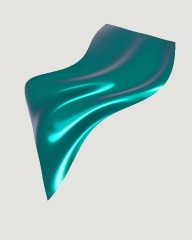
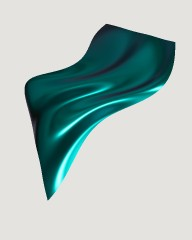
Mystique round 3: dense maze, 1 mm dots, opal mystique, electric holo foil
Tested on a crumpled cloth (new app/src/dev/drape-eval.js: the real
fabric shader on a swirled 40 cm square in the White loft, upright or
flat, swatch and close views) against the owner's nktextile close-ups
and an "electric foiled spandex" photo.

- Maze: a sum of six one-wavelength waves with drifting phases; dots
  within MAZE_GAP 0.3 cells of its zero lines are dropped. Short, densely
  packed chains in every direction (the warped stripes gave long zebra
  lines with wide gaps). dotR 0.46 -> 0.42.
- Mystique texScale 0.75 -> 1.33 (dots about 1 mm apart, per the swatch
  video); at 75% the far blend turned the dots to satin at swatch
  distance. Reverses the owner's 2026-10-24 pick; flagged.
- New opalmystique: mystique with a soft angle rainbow in the foil dots
  (holo 0.35, freq 3.2, jit 0.15); in the picker after mystique.
- liquidholo: film tint 0.32 -> 0.65 and new film.hue (uFilmHue, was a
  fixed 1.6/0.45) = [0.3, 3.2] so the pastel rainbow follows the folds;
  its sparse flakes removed (dark specks on pale foil).
- Picker tiles re-rendered in the White loft (their seamless rig is
  gone); thumbnails.materials(only) renders a subset.

Tests: 53 pass, the 3 known pose.test.js failures remain.

Changed region(s): [[0.125, 0.0875, 0.9375, 0.8458]]

diff --git a/app/src/materials/fabric.js b/app/src/materials/fabric.js
@@ -145,6 +145,7 @@ uniform float uFilmScale;  // metres per swirl
 uniform vec2 uFilmRange;   // film thickness, nm
 uniform float uFilmWarp;   // how much the swirls fold over each other
 uniform float uFilmTint;   // share of the film's colour shown in the cloth's own colour (hologram prints)
+uniform vec2 uFilmHue;     // that colour's hue: x per unit of swirl, y per unit of the reflection's turn (the angle)
 float gFilm = .5;
 float gFlake = 0.;              // the flake mask, for FOIL_FRAGMENT
 vec3 gDye = vec3( 0. ), gFoil = vec3( 0. ); // the knit's and the foil's own colours, for FOIL_FRAGMENT
@@ -164,7 +165,9 @@ uniform sampler2D tDecal;
 uniform vec4 uWrinkle[ 3 ];
 uniform vec4 uWrinkleN[ 3 ];
 
-const float MAZE_KEEP = .6; // share of lattice dots a maze screen keeps (uMaze)
+// Maze screen (uMaze): wave number of the maze (zero lines about pi / MAZE_K = 1.9 cells apart), the
+// half-width of the gaps along them (cells), and the share of lattice dots that leaves.
+const float MAZE_K = 1.65, MAZE_GAP = .3, MAZE_KEEP = .72;
 
 vec3 hash32( vec2 p ) {
 	vec3 p3 = fract( vec3( p.xyx ) * vec3( .1031, .1030, .0973 ) );
@@ -305,7 +308,7 @@ const FABRIC_FRAGMENT = /* glsl */`
 		// a hologram print shows its colours in the cloth itself, shifting as the surface turns
 		if ( uFilmTint > 0. ) {
 			vec3 hd = normalize( ( viewMatrix * vec4( uHoloDirW, 0. ) ).xyz );
-			vec3 ft = spectrum( gFilm * 1.6 + dot( reflect( - viewDir, normal ), hd ) * .45 );
+			vec3 ft = spectrum( gFilm * uFilmHue.x + dot( reflect( - viewDir, normal ), hd ) * uFilmHue.y );
 			diffuseColor.rgb = mix( diffuseColor.rgb, diffuseColor.rgb * ( .62 + .5 * ft ), uFilmTint );
 		}
 	}
@@ -363,12 +366,19 @@ const FABRIC_FRAGMENT = /* glsl */`
 			vec2 jit = ( hash32( hc.zw + 3.7 ).xy - .5 ) * 2. * max( .5 - uDotR, 0. );
 			nearMask = ( 1. - smoothstep( uDotR - r * .7, uDotR + r * .7, length( hc.xy - jit ) ) ) * step( rn.z, uPresence );
 			// Mystique's foil is printed in winding chains of dots with bare gaps between them, like a
-			// fingerprint (close-ups and a swatch video, 2026-10-27): keep the dots on evenly spaced lines
-			// two cells apart, meandering because they are warped by slow noise, MAZE_KEEP of them.
+			// fingerprint (close-ups and a swatch video, 2026-10-27): densely packed, short chains turning
+			// every way. A sum of six waves of one wavelength in six directions, their phases drifting
+			// slowly so it never repeats, has maze-like zero lines (as Turing patterns do); dots within
+			// MAZE_GAP cells of a zero line are left out, the gaps between chains.
 			if ( uMaze > 0. ) {
 				vec2 c = qc - hc.xy;
-				float ph = ( c.x + 14. * vnoise( c * .05 ) + 6. * vnoise( c.yx * .11 + 5.3 ) ) * .5;
-				nearMask *= mix( 1., step( abs( fract( ph ) - .5 ) * 2., MAZE_KEEP ), uMaze );
+				float f = 0.; vec2 gf = vec2( 0. );
+				for ( int i = 0; i < 6; i ++ ) {
+					float a = float( i ) * .5236 + .2, ph = 6.283 * vnoise( c * .04 + float( i ) * 17.3 );
+					vec2 d = vec2( cos( a ), sin( a ) ) * MAZE_K;
+					f += cos( dot( c, d ) + ph ); gf -= sin( dot( c, d ) + ph ) * d;
+				}
+				nearMask *= mix( 1., step( MAZE_GAP, abs( f ) / max( length( gf ), 1e-3 ) ), uMaze );
 			}
 			nearTilt = hash32( hc.zw + 17.3 ) * 2. - 1.;
 			rvNear = rn.x;
@@ -595,7 +605,7 @@ export function createFabricMaterial(zone) {
 		uOmbre: { value: 0 }, uOmbreColor: { value: new THREE.Color(0, 0, 0) }, uOmbreY: { value: new THREE.Vector2(0.82, 1.32) },
 		uSkin: { value: 0 }, uSeam: { value: 0 }, uSeamAllow: { value: 0.006 }, uClipShell: { value: 0 },
 		uDuo: { value: 0 }, uDuoColor: { value: new THREE.Color() }, uDuoPow: { value: 2 },
-		uFilm: { value: 0 }, uFilmScale: { value: 0.04 }, uFilmRange: { value: new THREE.Vector2(250, 700) }, uFilmWarp: { value: 1.5 }, uFilmTint: { value: 0 },
+		uFilm: { value: 0 }, uFilmScale: { value: 0.04 }, uFilmRange: { value: new THREE.Vector2(250, 700) }, uFilmWarp: { value: 1.5 }, uFilmTint: { value: 0 }, uFilmHue: { value: new THREE.Vector2(1.6, 0.45) },
 		uPrint: { value: 0 }, tPrint: { value: null }, uPrintSize: { value: new THREE.Vector2(0.2, 0.2) }, uPrintOffset: { value: new THREE.Vector2() },
 		uDecals: { value: 0 }, uDecalM: { value: [0, 1, 2, 3].map(() => new THREE.Matrix4()) }, uDecalRect: { value: [0, 1, 2, 3].map(() => new THREE.Vector4()) },
 		uDecalLook: { value: [0, 1, 2, 3].map(() => new THREE.Vector4()) }, uDecalCol: { value: [0, 1, 2, 3].map(() => new THREE.Color()) }, tDecal: { value: null },
@@ -644,7 +654,12 @@ export const FABRICS = {
 	// full mirror clear coat (1 at 0.1) read as latex, the step above it on the gloss ladder
 	// (knowledge/domain/fabrics/shiny-tricot-and-wet-look.md; owner's review, 2026-10-24).
 	wet: { label: 'Wet look (cire)', roughness: 0.32, sheen: 0.15, sheenRoughness: 0.5, clearcoat: 0.55, clearcoatRoughness: 0.2, anisotropy: 0.5, knit: 1 },
-	mystique: { label: 'Mystique (foil dots)', roughness: 0.62, knit: 1, flake: { pitch: 0.00075, dotR: 0.46, presence: 0.97, tilt: 0.15, rough: 0.12, colorVar: 0.1, blend: 1, maze: 1 }, texScale: 0.75 },
+	// Mystique's dots at 133%: about 1 mm apart, as in the owner's swatch video and shop close-ups
+	// (2026-10-27); at 75% (the owner's 2026-10-24 pick) they blurred into a satin sheen at swatch distance.
+	mystique: { label: 'Mystique (foil dots)', roughness: 0.62, knit: 1, flake: { pitch: 0.00075, dotR: 0.42, presence: 0.97, tilt: 0.15, rough: 0.12, colorVar: 0.1, blend: 1, maze: 1 }, texScale: 1.33 },
+	// Opal mystique: the foil dots carry a soft rainbow that turns with the surface (an iridescent foil;
+	// a dyed knit cannot change colour with the angle)
+	opalmystique: { label: 'Opal mystique', roughness: 0.62, knit: 1, flake: { pitch: 0.00075, dotR: 0.42, presence: 0.97, tilt: 0.15, rough: 0.12, colorVar: 0.1, blend: 1, maze: 1, holo: 0.35, holoFreq: 3.2, holoJit: 0.15 }, texScale: 1.33 },
 	hologram: { label: 'Hologram foil dots', roughness: 0.62, knit: 1, flake: { pitch: 0.0009, dotR: 0.37, presence: 1, tilt: 0.22, rough: 0.22, colorVar: 0.3, holo: 0.6, holoFreq: 0.9, holoJit: 0.5 } },
 	// The foils, film and velvets used to carry a value-noise "crinkle" bump (amp 0.1-0.7) from the
 	// POC: crumpled foil, not foil on a knit pulled tight over a body. On skin-tight fabric tension
@@ -659,11 +674,14 @@ export const FABRICS = {
 	mesh: { label: 'Stretch mesh (sheer)', roughness: 0.75, sheen: 0.3, sheenRoughness: 0.6, mesh: { pitch: 0.0007, holeR: 0.35 } },
 	glittermesh: { label: 'Glitter mesh', roughness: 0.75, mesh: { pitch: 0.0007, holeR: 0.35 }, flake: { pitch: 0.0005, dotR: 0.5, presence: 0.1, tilt: 0.5, rough: 0.1, colorVar: 0.5 } },
 	ombre: { label: 'Sublimated ombré', roughness: 0.74, sheen: 0.35, sheenRoughness: 0.6, knit: 1, ombre: true },
-	ombremystique: { label: 'Ombré mystique', roughness: 0.62, knit: 1, ombre: true, flake: { pitch: 0.00075, dotR: 0.46, presence: 0.97, tilt: 0.15, rough: 0.12, colorVar: 0.1, blend: 1, maze: 1 } },
-	// Moodboard looks added in P3 (realism upgrade R7b). film: thin-film swirls { scale m, range nm, warp };
+	ombremystique: { label: 'Ombré mystique', roughness: 0.62, knit: 1, ombre: true, flake: { pitch: 0.00075, dotR: 0.42, presence: 0.97, tilt: 0.15, rough: 0.12, colorVar: 0.1, blend: 1, maze: 1 } },
+	// Moodboard looks added in P3 (realism upgrade R7b). film: thin-film swirls { scale m, range nm, warp,
+	// tint: share of the film's colour in the cloth, hue: [per swirl, per angle] };
 	// duo: { pow } shift towards the second colour at grazing angles.
-	liquidholo: { label: 'Liquid hologram (opal)', roughness: 0.3, metalness: 0.25, iridescence: 1, film: { scale: 0.08, range: [300, 820], warp: 2.5, tint: 0.32 },
-		flake: { pitch: 0.0005, dotR: 0.45, presence: 0.025, tilt: 0.5, rough: 0.1, colorVar: 0.3, holo: 0.35, holoFreq: 2.5, holoJit: 1.2 }, texScale: 3.25 },
+	// Matched to an 'electric foiled spandex' close-up (owner, 2026-10-27): pale, high-key, pastel rainbow
+	// bands that follow the folds (hue mostly from the angle, film.hue). Its sparse sparkle flakes
+	// read as dark specks against the pale foil and were taken out.
+	liquidholo: { label: 'Liquid hologram (opal)', roughness: 0.3, metalness: 0.25, iridescence: 1, film: { scale: 0.08, range: [300, 820], warp: 2.5, tint: 0.65, hue: [0.3, 3.2] }, texScale: 3.25 },
 	oilslick: { label: 'Oil-slick foil', metalness: 1, roughness: 0.22, iridescence: 1, film: { scale: 0.05, range: [320, 980], warp: 1.6 }, knit: 1, texScale: 3.25 },
 	duochrome: { label: 'Duochrome foil', metalness: 1, roughness: 0.24, duo: { pow: 2.2 }, knit: 1 },
 	chrome: { label: 'Mirror chrome', metalness: 1, roughness: 0.06, knit: 1 },
@@ -732,7 +750,7 @@ export function applyFabric(m, key, colour, second, colour2 = null, scale = 1) {
 		else { base.getHSL(_hsl); u.uDuoColor.value.setHSL((_hsl.h + 0.22) % 1, Math.min(_hsl.s * 1.1, 1), _hsl.l); }
 	}
 	u.uFilm.value = f.film ? 1 : 0;
-	if (f.film) { u.uFilmScale.value = f.film.scale * scale; u.uFilmRange.value.fromArray(f.film.range); u.uFilmWarp.value = f.film.warp; u.uFilmTint.value = f.film.tint ?? 0; }
+	if (f.film) { u.uFilmScale.value = f.film.scale * scale; u.uFilmRange.value.fromArray(f.film.range); u.uFilmWarp.value = f.film.warp; u.uFilmTint.value = f.film.tint ?? 0; u.uFilmHue.value.set(...(f.film.hue ?? [1.6, 0.45])); }
 	u.uMesh.value = f.mesh ? 1 : 0;
 	if (f.mesh) { u.uMeshPitch.value = f.mesh.pitch * scale; u.uHoleR.value = f.mesh.holeR; }
 	u.uBumpAmp.value = f.bump?.amp ?? 0;

diff --git a/app/src/dev/drape-eval.js b/app/src/dev/drape-eval.js
@@ -1,0 +1,114 @@
+// Fabric close-ups on a swirled piece of cloth, for comparing against swatch photos (fabric shops
+// photograph a square of cloth twisted into a swirl from above). The cloth is drawn by the real
+// fabric shader in the open viewport (its studio, glint lights, tone mapping; bloom off), with
+// everything else in the scene hidden for the shot. Run from the app's console:
+//   const d = await import('/src/dev/drape-eval.js');
+//   await d.shoot('mystique', { colour: '#4a0f22', colour2: '#22c4c8' }, 'two-tone');
+// writes captures/drape-eval/<fabric>-<tag>-<view>.png. Views: swatch (about 20 cm across, as the
+// shop photos) and close (about 6 cm, where single dots show).
+import * as THREE from 'three';
+import { RIGS } from '../render/presets.js';
+
+const app = new Proxy({}, { get: (_, k) => (typeof window.app[k] === 'function' ? window.app[k].bind(window.app) : window.app[k]) });
+const wait = (ms) => new Promise((r) => setTimeout(r, ms));
+export const SETUP = { rig: 'White loft studio', envRotation: 170 * Math.PI / 180, exposure: 1 };
+
+// Height of the cloth (metres) at (x, z) on the floor: folds spiralling out of a centre gathered
+// up into a soft peak, fading towards the edges, plus a slow lean so the flat parts face many ways.
+const R = 0.2;
+function height(x, z) {
+	const r = Math.hypot(x, z), th = Math.atan2(z, x);
+	const swirl = 0.02 * Math.sin(6 * th + 34 * r) * (r / (r + 0.02)) * Math.exp(-r / 0.2);
+	const folds = 0.008 * Math.sin(3 * th - 55 * r + 1.3) * (r / (r + 0.04));
+	const peak = 0.03 * Math.exp(-(r * r) / 0.002);
+	const lean = 0.012 * Math.sin(9 * x + 2) * Math.cos(7 * z - 1);
+	return swirl + folds + peak + lean;
+}
+
+function drape() {
+	const n = 360, pos = [], nrm = [], uv = [], idx = [], e = 1e-4;
+	for (let j = 0; j <= n; j++) for (let i = 0; i <= n; i++) {
+		const x = (i / n - 0.5) * 2 * R, z = (j / n - 0.5) * 2 * R;
+		const dx = (height(x + e, z) - height(x - e, z)) / (2 * e), dz = (height(x, z + e) - height(x, z - e)) / (2 * e), L = Math.hypot(dx, 1, dz);
+		pos.push(x, height(x, z), z); nrm.push(-dx / L, 1 / L, -dz / L); uv.push(x, z);
+	}
+	for (let j = 0; j < n; j++) for (let i = 0; i < n; i++) { const a = j * (n + 1) + i; idx.push(a, a + n + 1, a + 1, a + 1, a + n + 1, a + n + 2); }
+	const g = new THREE.BufferGeometry(), N = (n + 1) * (n + 1);
+	g.setAttribute('position', new THREE.Float32BufferAttribute(pos, 3));
+	g.setAttribute('normal', new THREE.Float32BufferAttribute(nrm, 3));
+	g.setAttribute('aGNormal', new THREE.Float32BufferAttribute(nrm, 3));
+	g.setAttribute('aUV', new THREE.Float32BufferAttribute(uv, 2));
+	g.setAttribute('aRef', new THREE.Float32BufferAttribute(pos, 3));
+	g.setAttribute('aAO', new THREE.Float32BufferAttribute(new Float32Array(N).fill(1), 1));
+	g.setAttribute('aCover', new THREE.Float32BufferAttribute(new Float32Array(N).fill(1), 1));
+	g.setAttribute('aKeep', new THREE.Float32BufferAttribute(new Float32Array(N).fill(1), 1));
+	g.setIndex(idx);
+	return g;
+}
+
+// The fabric shader as the app's own copy (after an edit, a console import of fabric.js is a
+// separate module; see material-eval.js).
+async function fabricModule() {
+	const url = performance.getEntriesByType('resource').map((e) => e.name).filter((n) => /\/src\/materials\/fabric\.js/.test(n)).pop();
+	return import(/* @vite-ignore */ url ?? '/src/materials/fabric.js');
+}
+
+// face 'front': the cloth stands upright at chest height facing the room's front (+z), as a
+// leotard's front does, and reflects what a garment would (the dimmer, camera side of the room);
+// the camera looks at it a little from above. face 'up': laid flat on a table at waist height and
+// seen from above, it mirrors the loft's bright ceiling: the high-key look of shop photos taken on
+// a light table (the holographic foils).
+const AT = [0, 1.1, 0];
+const VIEWS = {
+	swatch: { position: [0.02, 0.2, 0.47], fov: 26, size: [1000, 1000] },
+	close: { position: [0.03, 0.06, 0.15], at: [0.03, 0, 0], fov: 26, size: [1000, 1000] },
+};
+// a view's offsets from the cloth (x across, y up the cloth, z out of its face) placed in the room
+function place(v, face) {
+	const o = v.position, t = v.at ?? [0, 0, 0], h = AT[1] - 0.3;
+	const at = face === 'up' ? (p) => [p[0], h + p[2], -p[1]] : (p) => [p[0] + AT[0], p[1] + AT[1], p[2] + AT[2]];
+	return { position: at(o), target: at(t), fov: v.fov };
+}
+
+// colour: a hex colour or { colour, colour2, second }; tweak: fabric fields for this shot only
+export async function shoot(fabric, colour, tag, views = ['swatch', 'close'], tweak = null, face = 'front') {
+	const fm = await fabricModule(), F = fm.FABRICS, saved = { ...F[fabric] };
+	if (tweak) Object.assign(F[fabric], tweak);
+	const look = typeof colour === 'string' ? { colour } : colour;
+	const vp = app.engine.viewport, hidden = [], out = [];
+	app.exec({ op: 'scene.set', ...SETUP, backdrop: 'plain' });
+	await vp.hdri(RIGS[SETUP.rig].hdri);
+	await wait(500);
+	const m = fm.createFabricMaterial(5);
+	m.side = THREE.DoubleSide;
+	m.userData.u.uOffset.value = 0; m.userData.u.uGarment.value = 0;
+	fm.applyFabric(m, fabric, look.colour, look.second ?? 'Tone-on-tone', look.colour2 ?? null, fm.texScaleOf({ fabric }));
+	m.userData.u.uUV.value = 1;
+	const mesh = new THREE.Mesh(drape(), m);
+	if (face === 'up') mesh.position.set(0, AT[1] - 0.3, 0); // flat, at table height
+	else { mesh.rotation.x = Math.PI / 2; mesh.position.fromArray(AT); } // its up (+y) to the front (+z)
+	vp.scene.traverse((o) => { if ((o.isMesh || o.isPoints || o.isLine) && o.visible) { hidden.push(o); o.visible = false; } });
+	if (vp.hdriOn?.sky) vp.hdriOn.sky.visible = vp.settings.backdrop === 'room';
+	vp.scene.add(mesh);
+	const cam = vp.getCamera(), bloom = vp.bloom.strength;
+	try {
+		for (const v of views) {
+			const s = VIEWS[v];
+			vp.setCamera(place(s, face));
+			await wait(600);
+			vp.bloom.strength = 0;
+			const blob = await app.withoutOverlay(() => vp.capture(s.size[0], s.size[1]));
+			const url = `/__fs/captures/drape-eval/${fabric}-${tag}-${v}.png`;
+			const r = await fetch(url, { method: 'POST', body: blob });
+			if (!r.ok) throw new Error(`${url}: ${r.status}`);
+			out.push(url);
+		}
+	} finally {
+		vp.bloom.strength = bloom;
+		vp.scene.remove(mesh); mesh.geometry.dispose(); m.dispose();
+		for (const o of hidden) o.visible = true;
+		vp.setCamera(cam);
+		for (const k of Object.keys(F[fabric])) delete F[fabric][k]; Object.assign(F[fabric], saved);
+	}
+	return out;
+}

diff --git a/app/src/dev/thumbnails.js b/app/src/dev/thumbnails.js
@@ -138,7 +138,7 @@ export async function blocks(only = null) { // only: tile names to render ('stra
 // The colour each app fabric's tile shows it in (a fabric takes any colour; these show it well):
 // [colour, second, colour2 (lace: the motifs')].
 export const MATERIAL_COLOURS = {
-	matte: ['#1b3fb5'], shiny: ['#b3122e'], wet: ['#0c0c10'], mystique: ['#5b2a86'], hologram: ['#16205c', 'Silver'],
+	matte: ['#1b3fb5'], shiny: ['#b3122e'], wet: ['#0c0c10'], mystique: ['#5b2a86'], opalmystique: ['#f2f0f4', 'White'], hologram: ['#16205c', 'Silver'],
 	shattered: ['#c8ccd8'], foil: ['#e6bf58'], glitter: ['#ff4f8b'], hologlitter: ['#c8ccd8'], velvet: ['#6b0f22'],
 	crushed: ['#0b7d55'], pearl: ['#f4f4f2'], mesh: ['#0c0c10'], glittermesh: ['#f6b6c8'], ombre: ['#ff4f8b'],
 	ombremystique: ['#5b2a86'], liquidholo: ['#e8e6f0'], oilslick: ['#16205c'], duochrome: ['#0b7d7a'], chrome: ['#c8ccd8'],
@@ -149,15 +149,16 @@ const putCanvas = async (url, cv) => {
 	if (!r.ok) throw new Error(`${url}: ${r.status}`);
 };
 
-export async function materials() {
+export async function materials(only = null) { // only: fabric keys to render ('mystique', ...), else all and the scans
 	app.exec({ op: 'scene.set', rig: 'White loft studio', envRotation: 0, exposure: 1 });
 	await settle(300);
 	const e = app.engine, renderer = e.viewport.renderer, env = e.viewport.scene.environment;
-	for (const k of Object.keys(FABRICS)) {
+	for (const k of only ?? Object.keys(FABRICS)) {
 		if (k === 'checker') continue;
 		const [colour, second, colour2] = MATERIAL_COLOURS[k] ?? ['#888888'];
 		await putCanvas(`/__fs/thumbs/materials/${thumbName(k)}.jpg`, clothThumb(renderer, env, { fabric: k, colour, second, colour2 }));
 	}
+	if (only) return;
 	for (const f of await e.textures.list()) {
 		const set = await e.textures.get(f.id);
 		await putCanvas(`/__fs/scanthumbs/${f.id}.jpg`, clothThumb(renderer, env, { fabric: baseFabricFor(f), colour: '#ffffff', texture: set, texMode: 'original' }));

diff --git a/app/src/ui/FabricPicker.jsx b/app/src/ui/FabricPicker.jsx
@@ -15,7 +15,7 @@ import { thumbName } from './Inspector.jsx';
 // mesh in 83% of garments, matte 45%, wet look and foil 33%, shiny 28%, mystique 28%, then the
 // rarer finishes), the plainest first. The sublimated-ombre fabrics stay out: a gradient is a
 // setting of any piece now; the debug checker too.
-const ORDER = ['matte', 'shiny', 'mystique', 'wet', 'mesh', 'foil', 'hologram', 'glitter', 'velvet', 'illusion', 'liquidholo', 'hologlitter', 'oilslick', 'duochrome', 'glitterfoil', 'pearl', 'chrome', 'crushed', 'glittermesh'];
+const ORDER = ['matte', 'shiny', 'mystique', 'opalmystique','wet', 'mesh', 'foil', 'hologram', 'glitter', 'velvet', 'illusion', 'liquidholo', 'hologlitter', 'oilslick', 'duochrome', 'glitterfoil', 'pearl', 'chrome', 'crushed', 'glittermesh'];
 const HIDDEN = new Set(['checker', 'ombre', 'ombremystique']);
 const KEYS = [...ORDER.filter((k) => FABRICS[k]), ...Object.keys(FABRICS).filter((k) => !ORDER.includes(k) && !HIDDEN.has(k))];
 

diff --git a/knowledge/engineering/rendering/fabric-shading/photo-match-mystique.md b/knowledge/engineering/rendering/fabric-shading/photo-match-mystique.md
@@ -125,6 +125,49 @@ Result: in the White loft at 170 or 270 degrees, burgundy/teal reads as burgundy
 highlight patches, like the reference; at 0 and 90 degrees the loft's bright walls fill the
 reflections and it reads teal everywhere.[^session-2026-10-27]
 
+# Round 3: a crumpled test cloth, regular, two-tone and opal (2026-10-27)
+
+The owner asked to nail regular, two-tone and opal mystique against the shop close-ups, testing
+on a crumpled piece of cloth if easier, plus a check of the app's holographic look against an
+"electric foiled spandex" close-up (pale, pastel rainbow bands along the folds).[^owner-2026-10-27]
+
+**Test scene `app/src/dev/drape-eval.js`**: a 40 cm square of cloth swirled into folds round a
+gathered centre, drawn by the real fabric shader in the open viewport (White loft, room at 170
+degrees, bloom off, everything else hidden), captured as `captures/drape-eval/<fabric>-<tag>-<view>.png`
+at `swatch` (about 20 cm across) and `close` (about 6 cm). `face: 'front'` (default) stands it
+upright facing the room's front as a leotard front; `'up'` lays it flat on a table, mirroring
+the loft's bright ceiling (the high-key light-table look of the holographic photo).
+`d.shoot(fabric, { colour, colour2, second }, tag, views, tweak, face)`.
+
+Findings and changes (`app/src/materials/fabric.js`):
+- **Maze rebuilt**: the warped stripes made long zebra lines with wide bare gaps (owner: too much
+  space). Now a sum of six waves of one wavelength in six directions, phases drifting with slow
+  noise; dots within `MAZE_GAP` 0.3 cells of its zero lines are left out (`MAZE_K` 1.65, lines
+  about 1.9 cells apart, `MAZE_KEEP` 0.72). Gives short, densely packed chains turning every way,
+  as in the close-ups. Dot radius 0.42 (0.46 nearly touched within a chain).
+- **Dot size 75% -> 133%** (`texScale`, about 1 mm between dots). From the swatch video (dots about
+  1 mm apart against the gloved hands) and the close-ups; at 75% the far blend (`uBlend`) already
+  smoothed the dots at swatch distance into a satin sheen. Reverses the owner's 75% pick of
+  2026-10-24, flagged to the owner.
+- **Opal mystique** (`opalmystique`, in the picker after mystique): mystique whose foil dots carry
+  the soft angle rainbow (`holo` 0.35, `holoFreq` 3.2, `holoJit` 0.15). Rendering the rainbow in
+  the knit instead (film tint) looked almost the same at swatch distance and differed only close
+  up; the foil was chosen because a dyed knit cannot change colour with angle. **[INFERRED]**
+- **Two-tone** needs no preset: mystique with a custom foil colour.
+- **Liquid hologram (opal)** retuned to the electric-foil photo: film `tint` 0.32 -> 0.65 and a
+  new `film.hue` [per swirl, per angle] = [0.3, 3.2] (was fixed 1.6, 0.45 in the shader, now
+  `uFilmHue`): the rainbow now follows the folds instead of swirling across flat cloth. Its sparse
+  sparkle flakes were removed (they read as dark specks on the pale foil). Rejected: a full-metal
+  foil with the flake rainbow (dark and over-saturated; the photo's foil is pale everywhere).
+- Material picker tiles (`public/thumbs/materials`) re-rendered in the White loft (the seamless
+  studio they were lit by is gone); `dev/thumbnails.js materials(only)` renders a subset.
+
+Remaining gap at swatch distance: in the shop photos the knit colour (burgundy, plum) fills the
+folds that face away and the foil colour only the highlight bands; upright in the loft our cloth
+reads darker and more foil-coloured overall, flat it reads foil-coloured and bright. The photos'
+light (one strong key over the camera, dark surroundings) is not one of the loft's orientations.
+Close up, dots, chains and the knit between them match well.
+
 # Open
 
 - **Lighting decides the look.** Under the (since removed) Studio (soft) rig the patches appeared;

diff --git a/knowledge/log.md b/knowledge/log.md
@@ -1,6 +1,7 @@
 # Bundle update log
 
 ## 2026-10-27
+* **Update**: [Photo match: mystique](/engineering/rendering/fabric-shading/photo-match-mystique.md) round 3 on a crumpled test cloth (`app/src/dev/drape-eval.js`): denser maze of short chains (sum of six waves), dots at 133% (reverses the owner's 75% of [2026-10-24](/decisions/2026-10-24-owner-fabric-review.md), flagged), new Opal mystique (rainbow in the foil dots), Liquid hologram (opal) retuned to an electric-foil close-up; picker tiles re-rendered in the White loft.
 * **Decision**: [Photographed (HDRI) studios only](/decisions/2026-10-27-hdri-lighting-only.md): the light-only and softbox rigs and the circling-lights switch are removed; designs naming one open in the White loft studio, which is also the material test scene. [Scripting surface](/engineering/app/scripting-surface.md) and [studio rigs](/engineering/app/studio-and-fabric-looks.md) updated.
 * **Update**: [Photo match: mystique](/engineering/rendering/fabric-shading/photo-match-mystique.md) round 2 from the owner's close-ups and swatch video: dots in winding chains (`maze`), dye and foil kept apart where a pixel is part of each (two-tone mystique showed the foil colour everywhere); two-tone is mystique with a custom foil colour, not duochrome.
 * **Creation**: [Photo match: mystique](/engineering/rendering/fabric-shading/photo-match-mystique.md): owner-requested realism audit against four product photos and the swatch sheet. Mystique dots were a coarse square mosaic at every distance; now sharper, flatter foil dots whose tilts average by dot count far away (`blend` flake field, mystique and ombré mystique only), giving grainy-edged highlight patches over a deep base. Glitter unchanged (averaging it turned glitter into satin). `material-eval.js` gains `sweep()` and a 3.2 m view.
